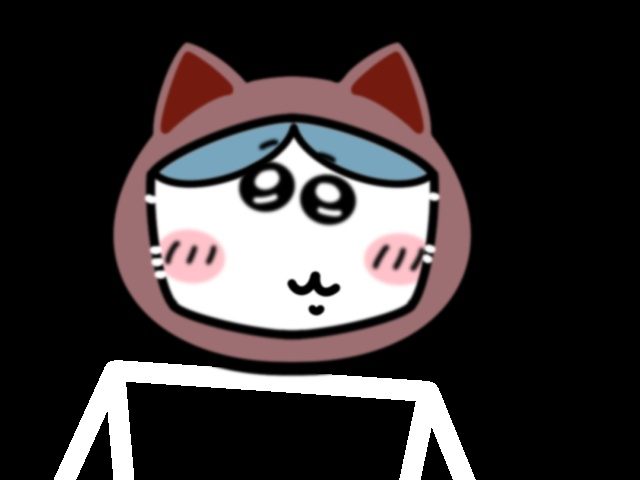
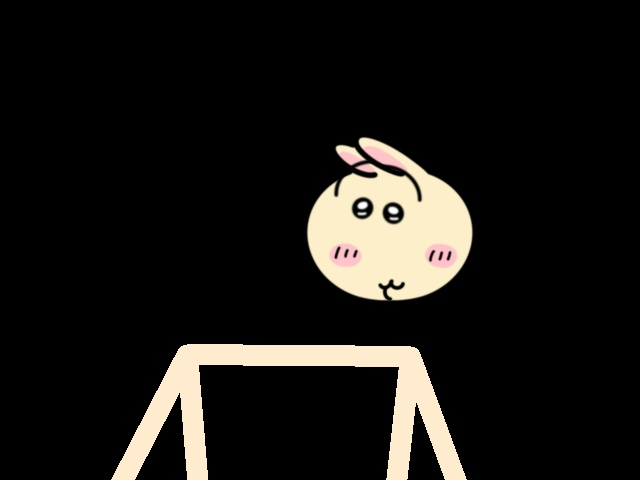
charactor switching

diff --git a/tiikawapose.py b/tiikawapose.py
@@ -35,6 +35,9 @@ for f in os.listdir(output_dir):
 # 1秒間隔のタイマー制御用
 last_save_time = time.time()
 
+# キャラクターの切り替え用
+last_character_switch_time = time.time()
+
 # 保存用のカウンター
 i = 0
 
@@ -43,6 +46,9 @@ usagi_flag = False
 
 # はちかどうかのフラグ
 hachi_flag = False
+
+# ちいかどうかのフラグ
+chi_flag = False
 
 # キラキラエフェクトの半径と数
 max_radius = int(cap.get(cv2.CAP_PROP_FRAME_HEIGHT))
@@ -111,7 +117,7 @@ def draw_rainbow_rain_effect(image, num_drops=100, drop_length=20, drop_thicknes
 # ランダムにフォルダを選択する関数
 def load_images_with_names_from_random_subfolder(parent_folder):
 
-    global usagi_flag, hachi_flag
+    global usagi_flag, hachi_flag, chi_flag
 
     # 親フォルダ内のサブフォルダ一覧を取得
     subfolders = [os.path.join(parent_folder, d) for d in os.listdir(parent_folder) if os.path.isdir(os.path.join(parent_folder, d))]
@@ -123,27 +129,52 @@ def load_images_with_names_from_random_subfolder(parent_folder):
     random_subfolder = random.choice(subfolders)
     print(f"選択されたサブフォルダ: {random_subfolder[9:]}")
 
-    if 'usagi' in random_subfolder[9:]:
-        usagi_flag = True
-
-    if 'hachi3' in random_subfolder[9:]:
-        hachi_flag = True
-
     return random_subfolder[9:]
 
 
-# キャラクターのサブフォルダをランダムに選択
-random_subfolder_name = load_images_with_names_from_random_subfolder("./images")
+def load_random_character_images():
+    # フラグの初期化
+    global usagi_flag, hachi_flag, chi_flag
+    usagi_flag = False
+    hachi_flag = False
+    chi_flag = False
 
-# 貼り付ける透過背景付き画像の読み込み
-face_image = cv2.imread('./images/' + str(random_subfolder_name) + '/character_face.png', cv2.IMREAD_UNCHANGED)
-left_eye_image = cv2.imread('./images/' + str(random_subfolder_name) + '/eye_image_rv.png', cv2.IMREAD_UNCHANGED)
-right_eye_image = cv2.imread('./images/' + str(random_subfolder_name) + '/eye_image.png', cv2.IMREAD_UNCHANGED)
-mouth_image = cv2.imread('./images/' + str(random_subfolder_name) + '/mouth_image.png', cv2.IMREAD_UNCHANGED)
+    # キャラクター画像のフォルダパス
+    character_base_path = "./images"
+    subfolders = [f for f in os.listdir(character_base_path) if os.path.isdir(os.path.join(character_base_path, f))]
 
-# 装飾のフォルダをランダムに選択
-vr_subfolder_name = load_images_with_names_from_random_subfolder("./decora")
-vr_image = cv2.imread('./decora/' + str(vr_subfolder_name) + '/vr.png', cv2.IMREAD_UNCHANGED)
+    # ランダムにサブフォルダを選択
+    random_subfolder = random.choice(subfolders)
+    random_subfolder_path = os.path.join(character_base_path, random_subfolder)
+
+    # サブフォルダ名に基づくフラグ設定
+    if 'usagi' in random_subfolder:
+        usagi_flag = True
+        hachi_flag = False
+        chi_flag = False
+    if 'ha' in random_subfolder:
+        hachi_flag = True
+        usagi_flag = False
+        chi_flag = False
+    if 'chi' in random_subfolder:
+        chi_flag = True
+        usagi_flag = False
+        hachi_flag = False
+
+    vr_subfolder_name = load_images_with_names_from_random_subfolder("./decora")
+    vr_image = cv2.imread(f'./decora/{vr_subfolder_name}/vr.png', cv2.IMREAD_UNCHANGED)
+
+    # キャラクター画像の読み込み
+    face_image = cv2.imread(os.path.join(random_subfolder_path, 'character_face.png'), cv2.IMREAD_UNCHANGED)
+    left_eye_image = cv2.imread(os.path.join(random_subfolder_path, 'eye_image_rv.png'), cv2.IMREAD_UNCHANGED)
+    right_eye_image = cv2.imread(os.path.join(random_subfolder_path, 'eye_image.png'), cv2.IMREAD_UNCHANGED)
+    mouth_image = cv2.imread(os.path.join(random_subfolder_path, 'mouth_image.png'), cv2.IMREAD_UNCHANGED)
+
+    # 読み込んだ画像とフラグを返す
+    return face_image, left_eye_image, right_eye_image, mouth_image, vr_image
+
+# キャラクター画像とフラグを切り替えながら取得
+face_image, left_eye_image, right_eye_image, mouth_image, vr_image = load_random_character_images()
 
 # 涙目
 sad_eye_image = cv2.imread('./options/sad_eye.png', cv2.IMREAD_UNCHANGED)
@@ -156,6 +187,9 @@ sun_image = cv2.imread('./options/sun.png', cv2.IMREAD_UNCHANGED)
 
 # 傘の顔
 kasa_usagi = cv2.imread('./options/kasaface.png', cv2.IMREAD_UNCHANGED)
+
+# 天照の顔
+ama_image = cv2.imread('./options/ama.png', cv2.IMREAD_UNCHANGED)
 
 # 画像をリサイズする関数
 def resize_image(image, scale):
@@ -252,7 +286,7 @@ def calculate_distance(landmark1, landmark2, image_width, image_height):
 
 
 # 顔の下で手を合わせているかどうかの関数
-def is_hands_joined_below_face(landmarks, image_width, image_height, join_threshold=50, face_to_hand_ratio=0.5):
+def is_hands_joined_below_face(landmarks, image_width, image_height, join_threshold=50, face_to_hand_ratio=1):
 
     # 顔（鼻）と手のランドマークを取得
     nose = landmarks[mp_pose.PoseLandmark.NOSE]
@@ -280,7 +314,37 @@ def is_hands_joined_below_face(landmarks, image_width, image_height, join_thresh
     return False
 
 
-# 片手が顔の近くにあるかを判定する関数
+# 片手が顔の横にあるかを判定する関数
+def is_hand_near_side_of_face(landmarks, image_width, image_height, eye_distance, threshold_ratio=3):
+
+    hand_near_side_of_face = False
+
+    # 顔の中心と手のランドマークを取得
+    nose = landmarks[mp_pose.PoseLandmark.NOSE]
+    left_hand = landmarks[mp_pose.PoseLandmark.LEFT_WRIST]
+    right_hand = landmarks[mp_pose.PoseLandmark.RIGHT_WRIST]
+
+    # 水平および垂直方向の閾値を設定
+    horizontal_threshold = threshold_ratio * eye_distance
+    vertical_threshold = 1 * eye_distance  # 垂直方向の閾値をやや小さめに設定
+
+    # 左手と顔の位置関係の判定（左手が顔の左側にあるか）
+    left_near_side = (left_hand.x < nose.x) and \
+                     (abs(left_hand.y - nose.y) * image_height < vertical_threshold) and \
+                     (calculate_distance(nose, left_hand, image_width, image_height) < horizontal_threshold)
+
+    # 右手と顔の位置関係の判定（右手が顔の右側にあるか）
+    right_near_side = (right_hand.x > nose.x) and \
+                      (abs(right_hand.y - nose.y) * image_height < vertical_threshold) and \
+                      (calculate_distance(nose, right_hand, image_width, image_height) < horizontal_threshold)
+
+    # 片手が顔の横にある場合
+    if left_near_side or right_near_side:
+        hand_near_side_of_face = True
+
+    return hand_near_side_of_face
+
+# 両手が顔の近くにあるかを判定する関数
 def is_hand_near_face(landmarks, image_width, image_height, eye_distance, threshould_ratio=2):
 
     hand_near_face = False
@@ -299,34 +363,53 @@ def is_hand_near_face(landmarks, image_width, image_height, eye_distance, thresh
     left_near_face = left_distance < threshould_distance
     right_near_face = right_distance < threshould_distance
 
-    if ((left_near_face == True) and (right_near_face == False)) or ((left_near_face == False) and (right_near_face == True)):
+    if left_near_face and right_near_face:
         hand_near_face = True
 
     return hand_near_face
 
-# 両手が顔の近くにあるかを判定する関数
-def is_hands_near_face(landmarks, image_width, image_height, eye_distance, threshould_ratio=3):
+# 両手が顔の横にあるかどうか判定する関数
+def are_hands_on_sides_of_face(landmarks, image_width, image_height, eye_distance, threshold_ratio=2.5, vertical_threshold_ratio=2.5):
 
-    hands_near_face = False
-
-    # 鼻と両手のランドマークを取得
+    # 顔の中央（鼻の位置）と手のランドマークを取得
     nose = landmarks[mp_pose.PoseLandmark.NOSE]
     left_hand = landmarks[mp_pose.PoseLandmark.LEFT_INDEX]
     right_hand = landmarks[mp_pose.PoseLandmark.RIGHT_INDEX]
+    
+    # 閾値を設定
+    horizontal_threshold = threshold_ratio * eye_distance
+    vertical_threshold = vertical_threshold_ratio * eye_distance
 
-    # 両手と顔の距離を計算
-    left_distance = calculate_distance(nose, left_hand, image_width, image_height)
-    right_distance = calculate_distance(nose, right_hand, image_width, image_height)
+    # 左手が顔の左側かどうか（左手が顔の左、かつ上下の位置も近いか）
+    left_side = (left_hand.x < nose.x) and \
+                (abs(left_hand.y - nose.y) * image_height < vertical_threshold) and \
+                (calculate_distance(nose, left_hand, image_width, image_height) < horizontal_threshold)
 
-    # 両手と顔の距離が閾値いないなら、顔の近くにあると判定
-    threshould_distance = threshould_ratio * eye_distance
-    left_near_face = left_distance < threshould_distance
-    right_near_face = right_distance < threshould_distance
+    # 右手が顔の右側かどうか（右手が顔の右、かつ上下の位置も近いか）
+    right_side = (right_hand.x > nose.x) and \
+                 (abs(right_hand.y - nose.y) * image_height < vertical_threshold) and \
+                 (calculate_distance(nose, right_hand, image_width, image_height) < horizontal_threshold)
 
-    if (left_near_face == True) and (right_near_face == True):
-        hands_near_face = True
+    # 両手がそれぞれ顔の左右にある場合
+    return left_side and right_side
 
-    return hands_near_face
+# 右手が顔のすぐ下にあるかどうかの関数
+def is_right_hand_near_chin(landmarks, threshold=0.1):
+
+    # 顎と右手のランドマークの座標を取得
+    chin_x = landmarks[mp_pose.PoseLandmark.MOUTH_RIGHT].x
+    chin_y = landmarks[mp_pose.PoseLandmark.MOUTH_RIGHT].y
+    right_hand_x = landmarks[mp_pose.PoseLandmark.RIGHT_WRIST].x
+    right_hand_y = landmarks[mp_pose.PoseLandmark.RIGHT_WRIST].y
+
+    # 顎と右手の距離を計算
+    distance = math.sqrt((chin_x - right_hand_x) ** 2 + (chin_y - right_hand_y) ** 2)
+
+    # 判定: 距離が閾値（threshold）より小さい場合、右手は顎の近くにある
+    if distance < threshold:
+        return True
+    else:
+        return False
 
 # 右手が挙がっているかどうかを判定する関数
 def is_right_hand_raised(landmarks, image_height):
@@ -406,10 +489,13 @@ with mp_pose.Pose(min_detection_confidence=0.5, min_tracking_confidence=0.5) as 
             eye_distance = calculate_distance(left_eye, right_eye, frame.shape[1], frame.shape[0])
 
             # 両手が顔の近くにあるか判定
-            hands_near_face = is_hands_near_face(results.pose_landmarks.landmark, frame.shape[1], frame.shape[0], eye_distance)
+            hands_near_face = are_hands_on_sides_of_face(results.pose_landmarks.landmark, frame.shape[1], frame.shape[0], eye_distance)
 
             # 片手が顔の近くにあるか判定
             hand_near_face = is_hand_near_face(results.pose_landmarks.landmark, frame.shape[1], frame.shape[0], eye_distance)
+
+            # 右手が顔の下側にあるか判定
+            hand_near_lower = is_right_hand_near_chin(results.pose_landmarks.landmark)
 
             # 右手が挙がっているか判定
             right_hand_raised = is_right_hand_raised(results.pose_landmarks.landmark, frame.shape[0])
@@ -451,21 +537,19 @@ with mp_pose.Pose(min_detection_confidence=0.5, min_tracking_confidence=0.5) as 
                 image = draw_rainbow_rain_effect(image)
 
             # 顔画像の貼り付け
-            if (right_hand_raised == True) and (hachi_flag == True):
+            if (hand_near_lower == True) and (hachi_flag == True):
                 image = overlay_image(image, mirai_hachi, (nose_x, nose_y), angle=0, scale=scale)
             elif (hands_joined == True) and (usagi_flag == True):
                 image = overlay_image(image, kasa_usagi, (nose_x, nose_y), angle=0, scale=scale)
+            elif (hand_near_lower == True) and (chi_flag == True):
+                image = overlay_image(image, ama_image, (nose_x, nose_y), angle=0, scale=scale)
             else:
                 image = overlay_image(image, face_image, (nose_x, nose_y), angle=0, scale=scale)
 
             # 目の位置と角度を計算して貼り付け
             eye_angle = np.degrees(np.arctan2(right_eye_y - left_eye_y, right_eye_x - left_eye_x))
-            if hands_near_face == True and hand_near_face == False:
-                image = overlay_image(image, sad_eye_image, (left_eye_x, left_eye_y), angle=eye_angle, scale=scale)
-                image = overlay_image(image, sad_eye_image, (right_eye_x, right_eye_y), angle=eye_angle, scale=scale)
-            else:
-                image = overlay_image(image, left_eye_image, (left_eye_x, left_eye_y), angle=eye_angle, scale=scale)
-                image = overlay_image(image, right_eye_image, (right_eye_x, right_eye_y), angle=eye_angle, scale=scale)
+            image = overlay_image(image, left_eye_image, (left_eye_x, left_eye_y), angle=eye_angle, scale=scale)
+            image = overlay_image(image, right_eye_image, (right_eye_x, right_eye_y), angle=eye_angle, scale=scale)
 
             # 口の位置と角度を計算して貼り付け
             image = overlay_image(image, mouth_image, (mouth_x, mouth_y), angle=eye_angle, scale=scale)
@@ -475,7 +559,7 @@ with mp_pose.Pose(min_detection_confidence=0.5, min_tracking_confidence=0.5) as 
                 image = overlay_image(image, vr_image, (nose_x, nose_y), angle=0, scale=scale)
 
             # 右手を挙げているとき貼り付け
-            if (right_hand_raised == True) and (left_hand_raised == False) and (hachi_flag == False):
+            if (right_hand_raised == True) and (left_hand_raised == False):
                 image = overlay_image(image, sun_image, (right_hand_x, right_hand_y), angle=0, scale=scale)
 
         # 画像を表示
@@ -483,6 +567,13 @@ with mp_pose.Pose(min_detection_confidence=0.5, min_tracking_confidence=0.5) as 
 
         # 1秒ごとの保存処理
         current_time = time.time()
+
+        # キャラクターを切り替える処理
+        if current_time - last_character_switch_time >= 10.0:
+            face_image, left_eye_image, right_eye_image, mouth_image, vr_image = load_random_character_images()
+            last_character_switch_time = current_time  # タイマーをリセット
+            print("キャラクターを切り替えました。")
+
         if current_time - last_save_time >= 1.0:
             last_save_time = current_time  # タイマーをリセット
 
@@ -493,27 +584,25 @@ with mp_pose.Pose(min_detection_confidence=0.5, min_tracking_confidence=0.5) as 
                 draw_thick_skeleton(skeleton_image, results.pose_landmarks.landmark, mp_pose.POSE_CONNECTIONS, thickness=20)
 
                 # 2. 画像を骨格の上に重ねる
-                if (right_hand_raised == True) and (hachi_flag == True):
+                if (hand_near_lower == True) and (hachi_flag == True):
                     skeleton_image = overlay_image(skeleton_image, mirai_hachi, (nose_x, nose_y), angle=0, scale=scale)
                 elif (hands_joined == True) and (usagi_flag == True):
                     skeleton_image = overlay_image(skeleton_image, kasa_usagi, (nose_x, nose_y), angle=0, scale=scale)
+                elif (hand_near_lower == True) and (chi_flag == True):
+                    skeleton_image = overlay_image(skeleton_image, ama_image, (nose_x, nose_y), angle=0, scale=scale)
                 else:
                     skeleton_image = overlay_image(skeleton_image, face_image, (nose_x, nose_y), angle=0, scale=scale)
 
                 # 目の位置と角度を計算して貼り付け
-                if hands_near_face == True and hand_near_face == False:
-                    skeleton_image = overlay_image(skeleton_image, sad_eye_image, (left_eye_x, left_eye_y), angle=eye_angle, scale=scale)
-                    skeleton_image = overlay_image(skeleton_image, sad_eye_image, (right_eye_x, right_eye_y), angle=eye_angle, scale=scale)
-                else:
-                    skeleton_image = overlay_image(skeleton_image, left_eye_image, (left_eye_x, left_eye_y), angle=eye_angle, scale=scale)
-                    skeleton_image = overlay_image(skeleton_image, right_eye_image, (right_eye_x, right_eye_y), angle=eye_angle, scale=scale)
+                skeleton_image = overlay_image(skeleton_image, left_eye_image, (left_eye_x, left_eye_y), angle=eye_angle, scale=scale)
+                skeleton_image = overlay_image(skeleton_image, right_eye_image, (right_eye_x, right_eye_y), angle=eye_angle, scale=scale)
 
                 skeleton_image = overlay_image(skeleton_image, mouth_image, (mouth_x, mouth_y), angle=eye_angle, scale=scale)
 
                 if hand_near_face == True:
                     skeleton_image = overlay_image(skeleton_image, vr_image, (nose_x, nose_y), angle=0, scale=scale)
 
-                if (right_hand_raised == True) and (left_hand_raised == False) and (hachi_flag == False):
+                if (right_hand_raised == True) and (left_hand_raised == False):
                     skeleton_image = overlay_image(skeleton_image, sun_image, (right_hand_x, right_hand_y), angle=0, scale=scale)
 
             except:
